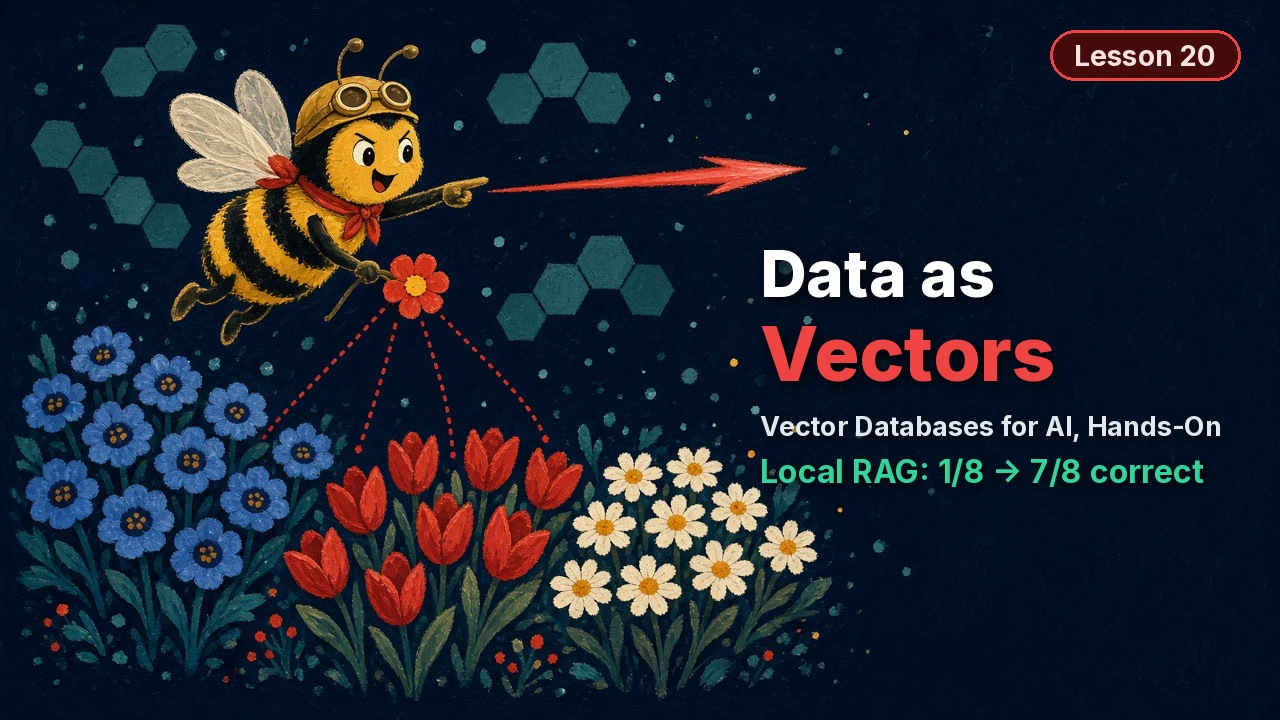
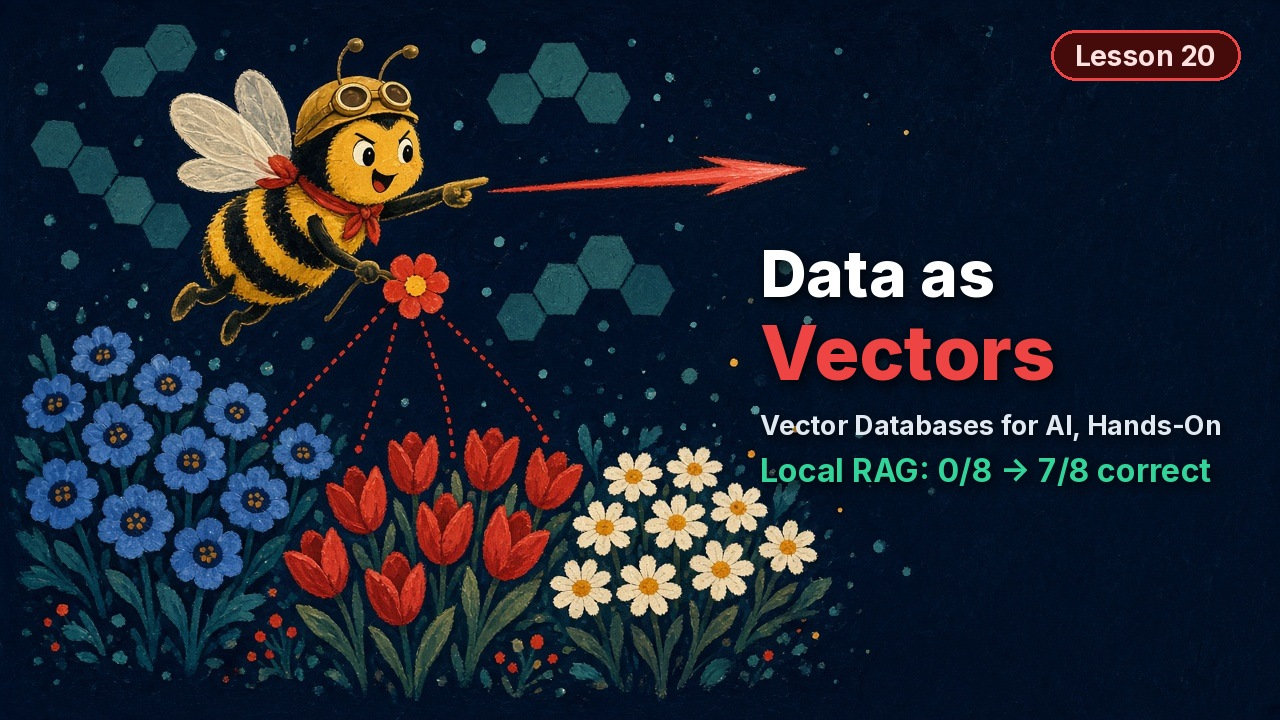
20: rebuilt video numbers: thumbnail shows local RAG 0/8 to 7/8, card length ~10 min

diff --git a/README.md b/README.md
@@ -166,7 +166,7 @@ Click a thumbnail to watch on YouTube. Durations are approximate.
   </tr>
   <tr>
     <td><a href="20-vector-databases-for-ai/"><img src="assets/readme/thumbnails/20-vector-databases-for-ai.jpg" alt="Video 20 thumbnail" width="100%"></a></td>
-    <td><b>20 · Vector Databases for AI: Embeddings, HNSW, Hybrid Search and Local RAG</b><br><sub>Track B · Qdrant · pgvector · DuckDB · llama.cpp · ~11 min</sub><br><br>Turn a fictional bank's policy library into vectors, load it into Qdrant as a single binary (no Docker), and measure every trade-off live: similarity metrics, HNSW, IVF, int8 and product quantization with rescoring, chunking, metadata filters and the post-filter trap, and BM25 + vectors fused with RRF. Hybrid search finds the right page in the top 5 for 94% of questions (keywords 88%, vectors 91%), and a small local model goes from 0/8 to 7/8 correct with retrieval, every answer cited. pgvector and DuckDB vss run on the same 40,000 vectors.<br><br>📁 <a href="20-vector-databases-for-ai/">20-vector-databases-for-ai</a> · ▶ Coming soon</td>
+    <td><b>20 · Vector Databases for AI: Embeddings, HNSW, Hybrid Search and Local RAG</b><br><sub>Track B · Qdrant · pgvector · DuckDB · llama.cpp · ~10 min</sub><br><br>Turn a fictional bank's policy library into vectors, load it into Qdrant as a single binary (no Docker), and measure every trade-off live: similarity metrics, HNSW, IVF, int8 and product quantization with rescoring, chunking, metadata filters and the post-filter trap, and BM25 + vectors fused with RRF. Hybrid search finds the right page in the top 5 for 94% of questions (keywords 88%, vectors 91%), and a small local model goes from 0/8 to 7/8 correct with retrieval, every answer cited. pgvector and DuckDB vss run on the same 40,000 vectors.<br><br>📁 <a href="20-vector-databases-for-ai/">20-vector-databases-for-ai</a> · ▶ Coming soon</td>
   </tr>
 </table>
 
